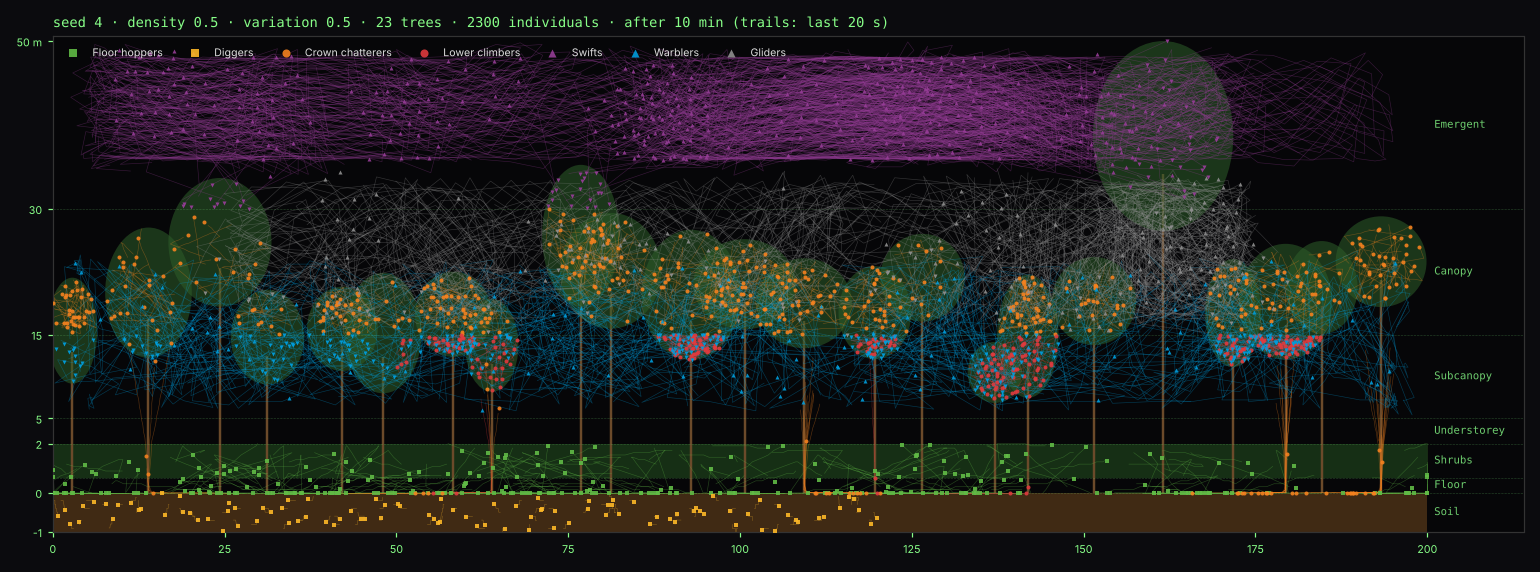
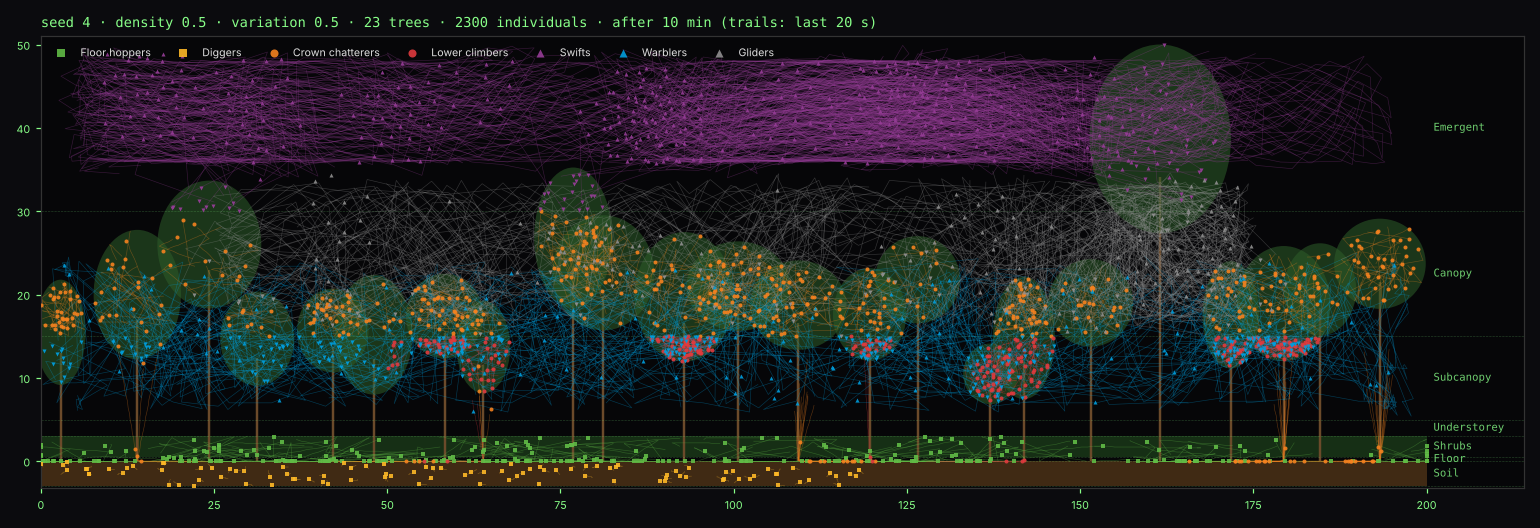
Deeper soil (3 m) and taller shrubs (to 3 m) in the world; pictures back to a true scale
Claude-Session: https://claude.ai/code/session_016dUi4DJ9Gm1PvEiirdVzbF

diff --git a/tools/plot_world.py b/tools/plot_world.py
@@ -3,34 +3,22 @@
     python3 tools/plot_world.py out/world.json docs/experiments/02-forest.png
 """
 import json, sys
-import numpy as np
 import matplotlib
 matplotlib.use("Agg")
 import matplotlib.pyplot as plt
 from matplotlib.patches import Ellipse, Rectangle
 
 COLOURS = ["#61bb46", "#fdb827", "#f5821f", "#e03a3e", "#963d97", "#009ddc", "#8f8f8f", "#c0e070"]
-LAYERS = [("Soil", -1, 0), ("Floor", 0, 0.5), ("Shrubs", 0.5, 2), ("Understorey", 2, 5),
+LAYERS = [("Soil", -3, 0), ("Floor", 0, 0.5), ("Shrubs", 0.5, 3), ("Understorey", 3, 5),
           ("Subcanopy", 5, 15), ("Canopy", 15, 30), ("Emergent", 30, 50)]
-# The drawing stretches the low layers so they're readable: soil gets 8 % of the height, floor
-# and shrubs together 10 %, the 48 m above share the rest. Positions are unchanged; only the
-# picture's vertical scale is.
-KNOTS_M = [-1.0, 0.0, 0.5, 2.0, 50.0]
-KNOTS_D = [0.0, 8.0, 11.0, 18.0, 100.0]
-def to_draw(y):
-    return np.interp(y, KNOTS_M, KNOTS_D, left=KNOTS_D[0] - 1, right=KNOTS_D[-1] + 1)
-def from_draw(d):
-    return np.interp(d, KNOTS_D, KNOTS_M, left=KNOTS_M[0] - 0.1, right=KNOTS_M[-1] + 0.5)
-
 MARK = {"walker": "s", "burrower": "s", "climber": "o", "flyer": "^"}
 
 def main(src, dst):
     w = json.load(open(src))
-    fig, ax = plt.subplots(figsize=(14, 5.2), facecolor="#0b0b0e")
+    fig, ax = plt.subplots(figsize=(14, 4.8), facecolor="#0b0b0e")
     ax.set_facecolor("#060608")
-    ax.add_patch(Rectangle((0, -1), 200, 1, color="#5a3a1a", alpha=0.7, lw=0))
-    ax.add_patch(Rectangle((0, 0.5), 200, 1.5, color="#2f6b2a", alpha=0.15 + 0.45 * w["shrubs"], lw=0))
-    ax.set_yscale("function", functions=(to_draw, from_draw))
+    ax.add_patch(Rectangle((0, -3), 200, 3, color="#5a3a1a", alpha=0.7, lw=0))
+    ax.add_patch(Rectangle((0, 0.5), 200, 2.5, color="#2f6b2a", alpha=0.15 + 0.45 * w["shrubs"], lw=0))
     for name, lo, hi in LAYERS:
         ax.axhline(lo, color="#8f8", lw=0.4, alpha=0.25, ls="--")
         ax.text(201, (lo + hi) / 2, name, color="#8f8", fontsize=7, va="center", family="monospace", alpha=0.8)
@@ -50,9 +38,7 @@ def main(src, dst):
             m = "v" if mode == "perched" else MARK[s["movement"]]
             ax.scatter([a["x"] for a in sel], [a["y"] for a in sel], s=7, marker=m, color=COLOURS[si % 8],
                        alpha=alpha, lw=0, zorder=3, label=s["name"] if mode == "flying" or s["movement"] != "flyer" and mode == "still" else None)
-    ax.set_xlim(0, 214); ax.set_ylim(-1.0, 50.5)
-    ax.set_yticks([-1, 0, 2, 5, 15, 30, 50])
-    ax.set_yticklabels(["-1", "0", "2", "5", "15", "30", "50 m"])
+    ax.set_xlim(0, 214); ax.set_ylim(-3.2, 51)
     ax.tick_params(colors="#8f8", labelsize=7)
     for sp in ax.spines.values():
         sp.set_color("#333")

diff --git a/crates/kanopy-core/src/life.rs b/crates/kanopy-core/src/life.rs
@@ -15,7 +15,7 @@
 
 use crate::rng::Rng;
 use crate::species::{Movement, Perch, Species, Spread};
-use crate::world::{Forest, Layer, Rect, BOTTOM, TOP};
+use crate::world::{Forest, Layer, Rect, BOTTOM, SHRUB_TOP, TOP};
 use crate::Vec2;
 
 /// Simulation step, seconds.
@@ -96,7 +96,7 @@ pub struct Group {
 /// Where a species can be, worked out once from its habitat and the forest.
 #[derive(Clone, Debug)]
 pub struct Places {
-    /// Its area, clamped to what its movement allows (walkers 0–2 m, burrowers soil).
+    /// Its area, clamped to what its movement allows (walkers 0–3 m, burrowers soil).
     pub live: Rect,
     /// Flyers: flight band inside the area.
     pub fly: Rect,
@@ -121,7 +121,7 @@ fn places(forest: &Forest, sp: &Species) -> Places {
     let h = &sp.habitat;
     let area = h.area.intersect(&Rect::world()).unwrap_or(Rect::world());
     let live = match h.movement {
-        Movement::Walker => band(&area, 0.0, 2.0),
+        Movement::Walker => band(&area, 0.0, SHRUB_TOP),
         Movement::Burrower => band(&area, BOTTOM, 0.0),
         Movement::Climber | Movement::Flyer => area,
     };
@@ -140,7 +140,7 @@ fn places(forest: &Forest, sp: &Species) -> Places {
     };
     let reach = match (h.movement, perch) {
         (Movement::Climber, _) => Some(live),
-        (Movement::Flyer, Some(p)) if p.y0 >= 2.0 => Some(p),
+        (Movement::Flyer, Some(p)) if p.y0 >= SHRUB_TOP => Some(p),
         _ => None,
     };
     let mut homes = Vec::new();
@@ -233,7 +233,7 @@ fn spot(
 fn perch_spot(forest: &Forest, sp: &Species, pl: &Places, x: f64, rng: &mut Rng) -> Vec2 {
     let p = pl.perch.expect("perching flyer without a perch");
     let r = roam(sp.habitat.cohesion).max(10.0);
-    if p.y1 < 2.0 || pl.homes.is_empty() {
+    if p.y1 <= SHRUB_TOP || pl.homes.is_empty() {
         let x = (x + rng.range(-r, r)).clamp(p.x0, p.x1);
         return Vec2::new(x, rng.range(p.y0, p.y1));
     }
@@ -677,7 +677,7 @@ impl Life {
                 if !p.contains(a.pos, eps) {
                     return fail("perched outside its perch layer");
                 }
-                if p.y1 >= 2.0
+                if p.y1 > SHRUB_TOP
                     && !pl.homes.is_empty()
                     && !self.forest.trees.iter().any(|t| t.in_crown(a.pos, eps))
                 {

diff --git a/crates/kanopy-core/tests/world.rs b/crates/kanopy-core/tests/world.rs
@@ -28,7 +28,8 @@ fn check_all(life: &Life) {
 
 #[test]
 fn layers() {
-    assert_eq!(Layer::at(-0.5), Layer::Soil);
+    assert_eq!(Layer::at(-2.5), Layer::Soil);
+    assert_eq!(Layer::at(2.5), Layer::Shrubs);
     assert_eq!(Layer::at(0.2), Layer::Floor);
     assert_eq!(Layer::at(1.0), Layer::Shrubs);
     assert_eq!(Layer::at(3.0), Layer::Understorey);
@@ -156,7 +157,7 @@ fn everyone_stays_where_they_live() {
 #[test]
 fn area_limits_x_too() {
     let mut l = one(Habitat {
-        area: Rect::new(60.0, 90.0, 0.0, 2.0),
+        area: Rect::new(60.0, 90.0, 0.0, 3.0),
         individuals: 60,
         cohesion: 0.0,
         ..Default::default()
@@ -173,8 +174,8 @@ fn walkers_and_burrowers_heights() {
     l.run(300.0);
     for a in &l.animals {
         match l.species[a.species as usize].habitat.movement {
-            Movement::Walker => assert!(a.pos.y >= 0.0 && a.pos.y <= 2.0),
-            Movement::Burrower => assert!(a.pos.y >= -1.0 && a.pos.y <= 0.0),
+            Movement::Walker => assert!(a.pos.y >= 0.0 && a.pos.y <= 3.0),
+            Movement::Burrower => assert!(a.pos.y >= -3.0 && a.pos.y <= 0.0),
             _ => {}
         }
     }
@@ -236,7 +237,7 @@ fn spread_even_random_clumped() {
 fn spread_stays_in_the_area() {
     for spread in [Spread::Even, Spread::Random, Spread::Clumped] {
         let l = one(Habitat {
-            area: Rect::new(120.0, 180.0, 0.0, 2.0),
+            area: Rect::new(120.0, 180.0, 0.0, 3.0),
             spread,
             individuals: 30,
             ..Default::default()
@@ -314,7 +315,7 @@ fn flight_share_matches() {
 fn perches_are_in_their_layer() {
     for (layer, lo, hi) in [
         (Layer::Canopy, 15.0, 30.0),
-        (Layer::Shrubs, 0.5, 2.0),
+        (Layer::Shrubs, 0.5, 3.0),
         (Layer::Floor, 0.0, 0.0),
     ] {
         let mut l = one(flyer(0.4, Perch::At(layer), false, 1));

diff --git a/crates/kanopy-core/src/species.rs b/crates/kanopy-core/src/species.rs
@@ -80,7 +80,7 @@ impl Default for Habitat {
     fn default() -> Self {
         Self {
             movement: Movement::Walker,
-            area: Rect::new(0.0, WIDTH, 0.0, 2.0),
+            area: Rect::new(0.0, WIDTH, 0.0, 3.0),
             individuals: 20,
             spread: Spread::Random,
             spacing: 5.0,
@@ -123,7 +123,7 @@ pub fn demo(scale: f64) -> Vec<Species> {
             "Floor hoppers",
             Habitat {
                 movement: Movement::Walker,
-                area: Rect::new(0.0, w, 0.0, 2.0),
+                area: Rect::new(0.0, w, 0.0, 3.0),
                 individuals: n(300.0),
                 spread: Spread::Clumped,
                 spacing: 10.0,
@@ -138,7 +138,7 @@ pub fn demo(scale: f64) -> Vec<Species> {
             "Diggers",
             Habitat {
                 movement: Movement::Burrower,
-                area: Rect::new(0.0, 120.0, -1.0, 0.0),
+                area: Rect::new(0.0, 120.0, -3.0, 0.0),
                 individuals: n(100.0),
                 spread: Spread::Even,
                 spacing: 1.0,
@@ -166,7 +166,7 @@ pub fn demo(scale: f64) -> Vec<Species> {
             "Lower climbers",
             Habitat {
                 movement: Movement::Climber,
-                area: Rect::new(50.0, w, 2.0, 15.0),
+                area: Rect::new(50.0, w, 3.0, 15.0),
                 individuals: n(300.0),
                 spread: Spread::Even,
                 spacing: 8.0,

diff --git a/crates/kanopy-core/src/world.rs b/crates/kanopy-core/src/world.rs
@@ -1,16 +1,18 @@
 //! The forest slice: its size, layers, trees and shrubs.
 //!
-//! A 200 m wide side-on slice from −1 m (soil) to 50 m. Trees are generated from the seed:
+//! A 200 m wide side-on slice from −3 m (soil) to 50 m. Trees are generated from the seed:
 //! Density sets how many there are and how full their crowns are, Tree variation how much they
 //! differ. The tallest tree always reaches 50 m. A crown is an ellipse from its bottom to the top
-//! of the tree. Shrubs are one band (0.5–2 m) whose fullness follows Density.
+//! of the tree. Shrubs are one band (0.5–3 m) whose fullness follows Density.
 
 use crate::rng::Rng;
 use crate::Vec2;
 
 pub const WIDTH: f64 = 200.0;
 pub const TOP: f64 = 50.0;
-pub const BOTTOM: f64 = -1.0;
+pub const BOTTOM: f64 = -3.0;
+/// Top of the shrub band: walkers live from the floor up to here.
+pub const SHRUB_TOP: f64 = 3.0;
 
 #[derive(Clone, Copy, Debug, PartialEq, Eq)]
 pub enum Layer {
@@ -39,8 +41,8 @@ impl Layer {
         match self {
             Layer::Soil => (BOTTOM, 0.0),
             Layer::Floor => (0.0, 0.5),
-            Layer::Shrubs => (0.5, 2.0),
-            Layer::Understorey => (2.0, 5.0),
+            Layer::Shrubs => (0.5, SHRUB_TOP),
+            Layer::Understorey => (SHRUB_TOP, 5.0),
             Layer::Subcanopy => (5.0, 15.0),
             Layer::Canopy => (15.0, 30.0),
             Layer::Emergent => (30.0, TOP),

diff --git a/design.md b/design.md
@@ -37,7 +37,7 @@ to decide · **[Later]** agreed to leave out of the prototype.
 
 ### 3.1 The slice
 - The forest is a **2D side-on slice**: x is left to right, y is height. **No depth.** [Decided]
-- Width is **fixed at 200 m** for every forest. [Decided] Heights run from −1 m (soil) to 50 m.
+- Width is **fixed at 200 m** for every forest. [Decided] Heights run from −3 m (soil) to 50 m.
 
 ### 3.2 Layers
 Height bands, used for habitat and drawn as faint guides on the scene. [Decided: these seven]
@@ -47,10 +47,10 @@ Height bands, used for habitat and drawn as faint guides on the scene. [Decided:
 | Emergent | 30–50 m |
 | Canopy | 15–30 m |
 | Subcanopy | 5–15 m |
-| Understorey | 2–5 m |
-| Shrubs | 0.5–2 m |
+| Understorey | 3–5 m |
+| Shrubs | 0.5–3 m |
 | Floor | 0–0.5 m |
-| Soil | −1–0 m |
+| Soil | −3–0 m |
 
 ### 3.3 Trees
 - Trees are **objects** generated from the forest seed: an x position, a height and a crown (the
@@ -272,9 +272,7 @@ Many quiet animals add up quickly: 1,000 equal callers are 30 dB louder than one
 Same look as the bytebent pages (platinum window, black screen first, etched groups, knobs and
 range sliders) with kanopy's own name and badge and no bytebent mark. [Decided]
 
-- **Forest**: the screen shows the slice, with the soil and the floor-and-shrubs band drawn taller
-  than their real height so they're readable (soil 8 %, floor and shrubs 10 % of the picture).
-  Only the picture is stretched, not the world. [Proposed] The screen shows trees, layer guides, the listener or the box, and every
+- **Forest**: the screen shows the slice: trees, layer guides, the listener or the box, and every
   individual as a dot in its species colour that lights up when it calls. Drag the listener, or draw
   and drag the box. Controls: Listen (Listener · Box), Density, Medium, Reverb, Key, Ear, Path,
   Seed, Play, Export.

diff --git a/experiments.md b/experiments.md
@@ -18,7 +18,7 @@ came out. Screenshots go in `docs/experiments/` as `NN-short-name.png` (NN = bat
 | 20 Oct 2026 | 02 | Snapshots of the demo forest (7 species, 2,300 individuals) after 10 min: woodland, forest, thicket | Climbers in crowns with trails down trunks when they change trees; perched flyers in their layers; burrowers only in their part of the soil | `docs/experiments/02-woodland.png`, `02-forest.png`, `02-thicket.png` |
 | 20 Oct 2026 | 02 | Look at the first snapshots | Flocks streaked across the whole width (pull home too weak); climbers lined up on crown edges their area only clipped. Fixed: stronger pull past the roaming distance; prefer trees that reach well into the area; crown half-width capped at 12 m | |
 | 20 Oct 2026 | 02 | World bench: demo forest ×8.7 (20,010 individuals, 4,749 groups), 20 steps a second (container) | 42 ms per second of forest time: about 4 % of one core. Set-up 21 ms | `docs/experiments/02-forest-20k.png` |
-| 20 Oct 2026 | 02 | Your note: soil and shrubs too thin in the pictures | Drawing now stretches the low layers (soil 8 %, floor + shrubs 10 % of the height); the world is unchanged. Images redrawn | `docs/experiments/02-*.png` |
+| 20 Oct 2026 | 02 | Your note: soil and shrubs too thin | Made them bigger in the world: soil −1 → −3 m deep, shrubs up to 3 m (was 2), understorey now 3–5 m. Walkers live 0–3 m. Images redrawn | `docs/experiments/02-*.png` |
 | 20 Oct 2026 | 01 | Bench on GitHub's Apple Silicon Mac | Never ran: no runner free within 15 min (GitHub capacity). Switched to `macos-26-intel`, matching your Intel laptop | |
 
 ## Notes
